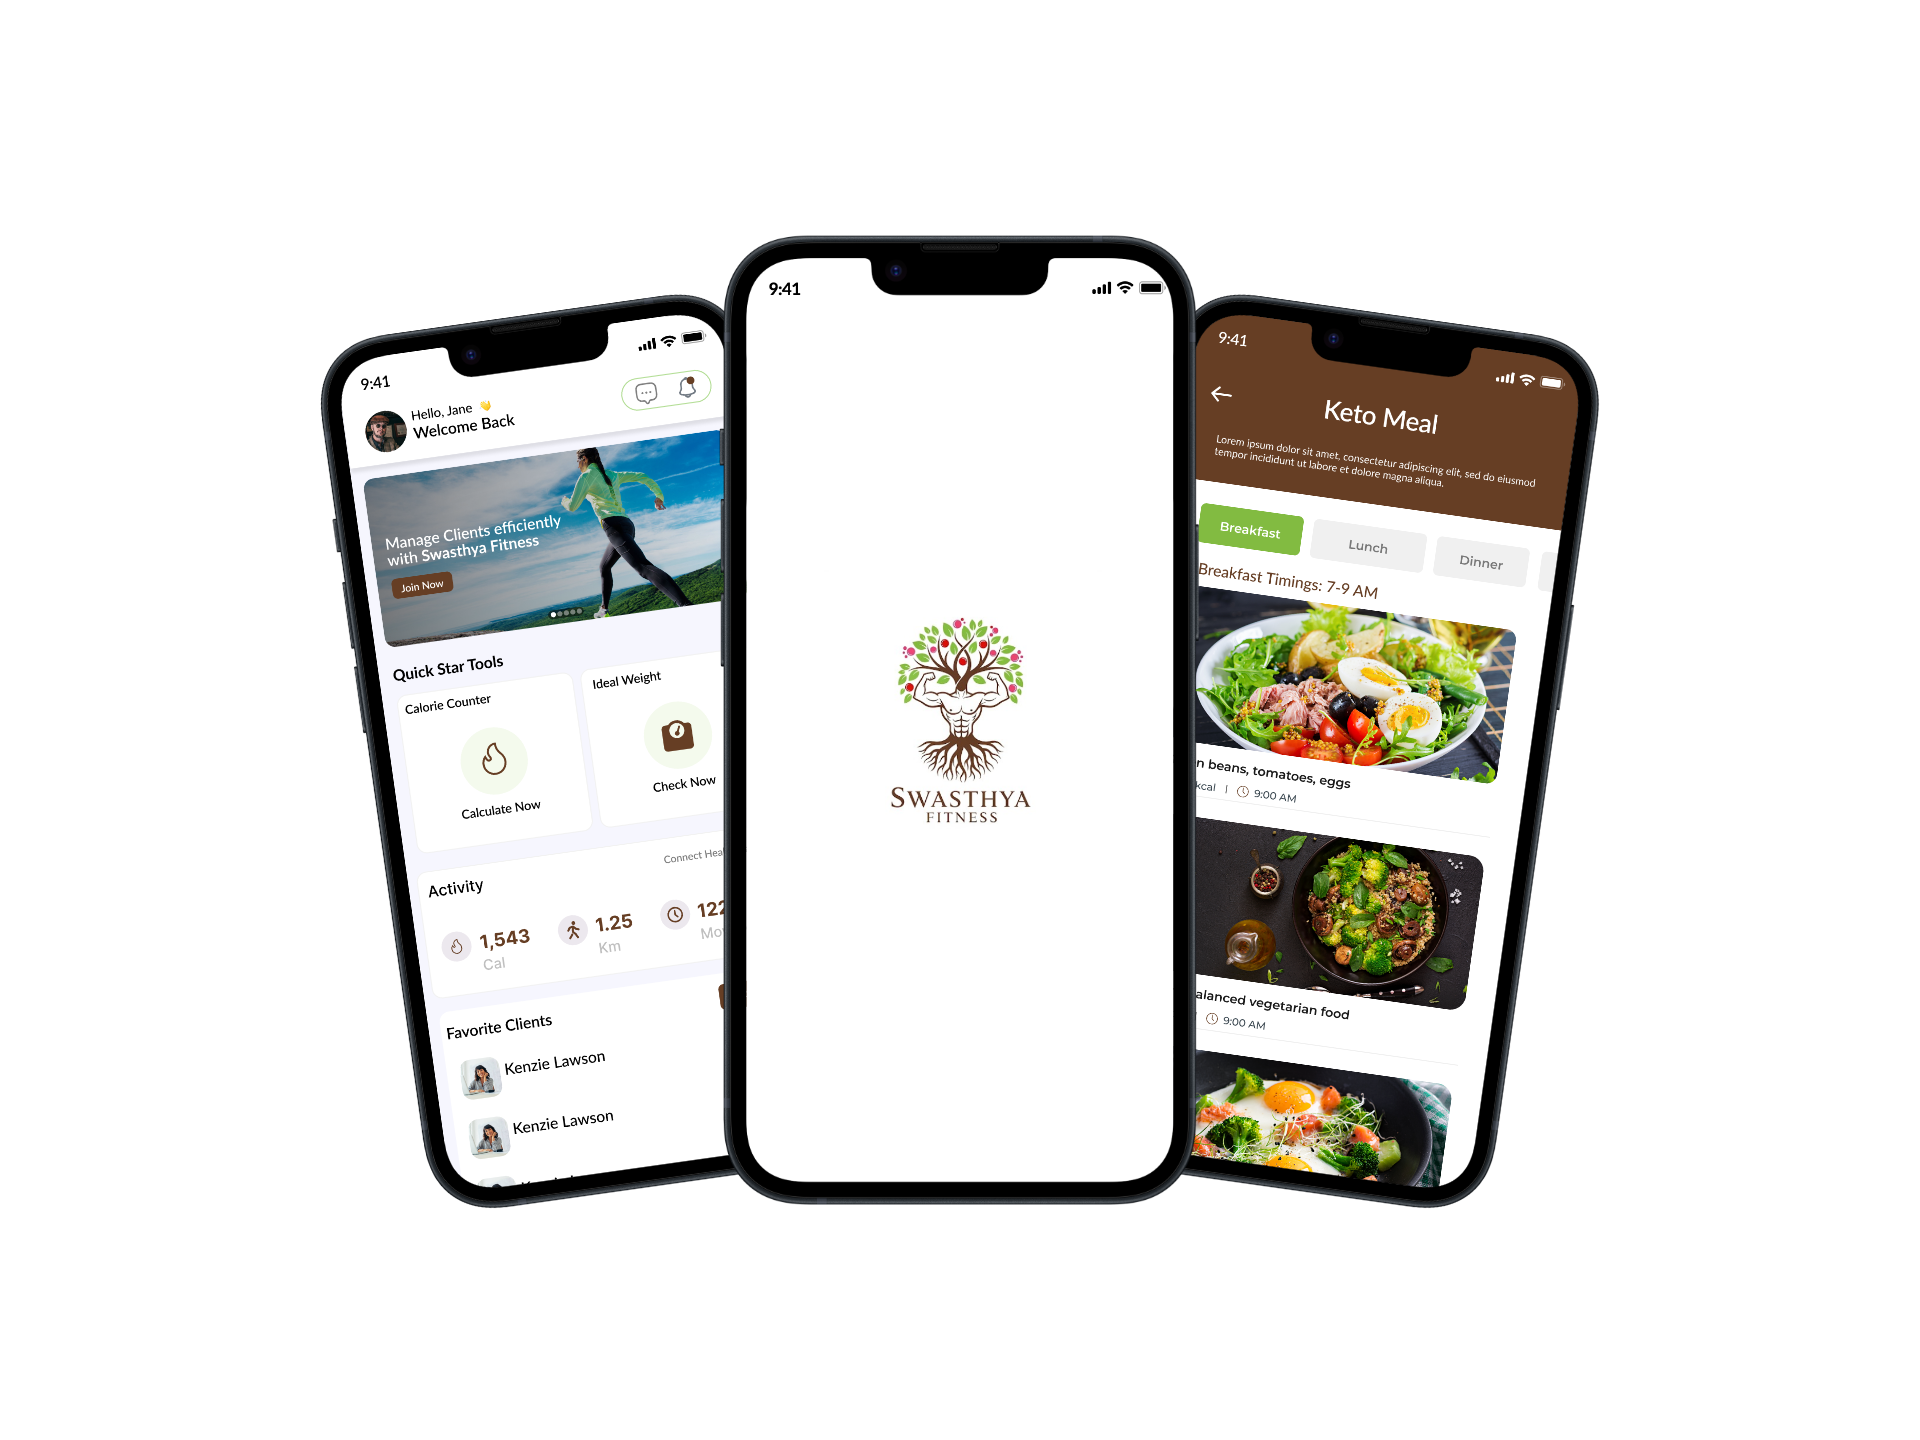
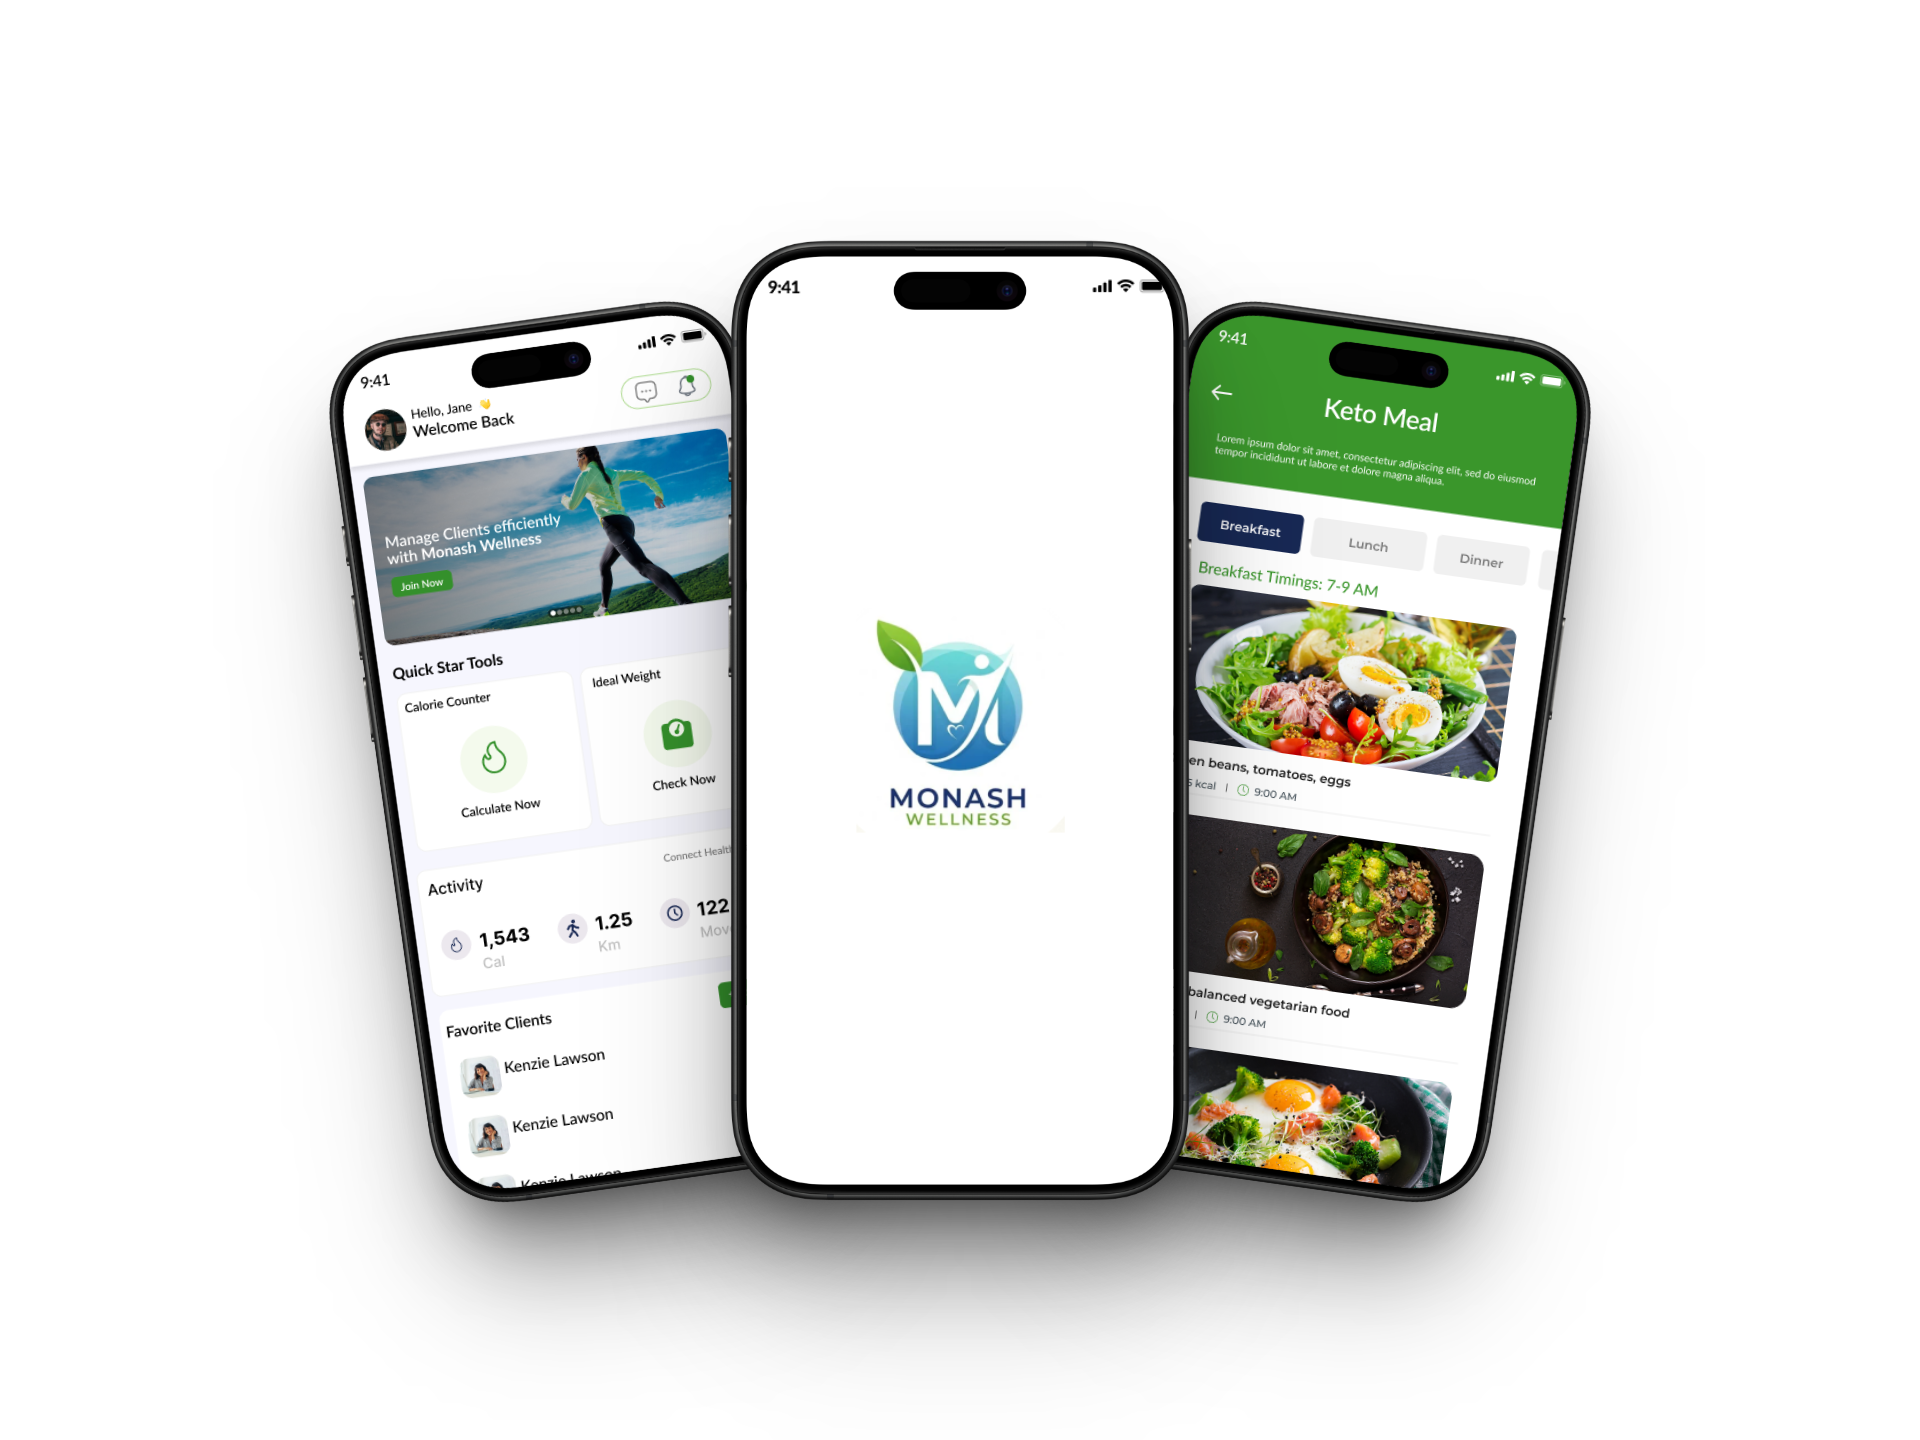
mockup-added

diff --git a/src/app/app/[...slug]/page.jsx b/src/app/app/[...slug]/page.jsx
@@ -3,29 +3,29 @@ import Link from "next/link";
 
 export default function Page() {
   return <section className="w-full min-h-screen bg-[url('/app_bg.png')] bg-center flex justify-center items-center py-[4rem] px-6 md:px-12 ">
-    <div className="flex flex-col lg:flex-row justify-between items-center h-full text-white gap-[2rem] lg:gap-[5rem]">
-      <div className="lg:min-w-1/2 flex flex-col items-center lg:items-start lg:pl-6 md:mt-[10rem] lg:mt-0 text-center lg:text-left">
-        <h1 className="text-[1.2rem] md:text-[1.5rem] lg:text-[3rem] font-bold lg:mb-12 lg:leading-[3.5rem] ">Download the <br />
-          <span className='md:text-[2.7rem] text-[2rem] lg:text-[3rem] text-white opacity-100'>The Zen Fit App</span>
-        </h1>
-        <p className="text-sm md:text-xl mb-5 opacity-70 ">Begin your journey Towards Making People Healthy</p>
+    <div className="flex flex-col lg:flex-row justify-between items-center h-full text-white gap-[2rem] md:gap-5 xl:gap-[5rem]">
+      <div className="xl:min-w-1/2 flex flex-col items-center lg:items-start xl:pl-6 md:mt-[10rem] lg:mt-0 text-center lg:text-left">
+                <h1 className="text-[1.2rem] md:text-[1.5rem] lg:text-[2.5rem] xl:text-[3rem] font-bold lg:mb-7 xl:mb-12 lg:leading-[3.5rem] ">Download the <br />
+                    <span className='md:text-[2.7rem] text-[2rem] xl:text-[3rem] text-white opacity-100'>Monash Wellness App</span>
+                </h1>
+                <p className="text-sm md:text-xl mb-5 opacity-70 ">Begin your journey Towards Making People Healthy</p>
         <div className="flex justify-between items-center gap-5 mb-5">
-          <Link href="https://play.google.com/store/apps/details?id=com.wellnessz.swasthya" target="_blank">
-            <Image src="/playstore.png" alt="Google Store" width={150} height={40} className="cursor-pointer" />
+          <Link href="https://play.google.com/store/apps/details?id=com.wellnessz.monash" target="_blank">
+            <Image src="/playstore.png" alt="Google Store" width={150} height={40} className="cursor-pointer w-2xs" />
           </Link>
-          {/* <Link href="https://apps.apple.com/us/app/zenfit-app/id6743387199" target="_blank">
-            <Image src="/appStore.png" alt="App Store" width={150} height={60} className="cursor-pointer" />
-          </Link> */}
+          <Link href="https://apps.apple.com/us/app/monash-wellness/id6751632386" target="_blank">
+            <Image src="/appStore.png" alt="App Store" width={150} height={60} className="cursor-pointer w-2xs" />
+          </Link>
         </div>
       </div>
 
-      <div className="flex justify-center items-center mr-2 md:mr-12">
+      <div className="flex justify-center items-center mr-2 lg:mr-12">
         <Image
           src="/mockup.png"
-          alt="Zen Fit App Screens"
+          alt="Swasthya Fitness Screens"
           width={900}
           height={900}
-          className="w-full self-center max-w-[650px] object-contain" />
+          className="w-full self-center lg:w-lg xl:w-lg 2xl:max-w-3xl mx-auto object-contain" />
       </div>
     </div>
   </section>

diff --git a/src/app/app/page.jsx b/src/app/app/page.jsx
@@ -3,29 +3,29 @@ import Link from "next/link";
 
 export default function Page() {
   return <section className="w-full min-h-screen bg-[url('/app_bg.png')] bg-center flex justify-center items-center py-[4rem] px-6 md:px-12 ">
-    <div className="flex flex-col lg:flex-row justify-between items-center h-full text-white gap-[2rem] xl:gap-[5rem]">
-      <div className="xl:min-w-1/2 flex flex-col items-center lg:items-start xl:pl-6 md:mt-[10rem] xl:mt-0 text-center lg:text-left">
-                <h1 className="text-[1.2rem] md:text-[1.5rem] lg:text-[3rem] font-bold lg:mb-12 lg:leading-[3.5rem] ">Download the <br />
+    <div className="flex flex-col lg:flex-row justify-between items-center h-full text-white gap-[2rem] md:gap-5 xl:gap-[5rem]">
+      <div className="xl:min-w-1/2 flex flex-col items-center lg:items-start xl:pl-6 md:mt-[10rem] lg:mt-0 text-center lg:text-left">
+                <h1 className="text-[1.2rem] md:text-[1.5rem] lg:text-[2.5rem] xl:text-[3rem] font-bold lg:mb-7 xl:mb-12 lg:leading-[3.5rem] ">Download the <br />
                     <span className='md:text-[2.7rem] text-[2rem] xl:text-[3rem] text-white opacity-100'>Monash Wellness App</span>
                 </h1>
                 <p className="text-sm md:text-xl mb-5 opacity-70 ">Begin your journey Towards Making People Healthy</p>
         <div className="flex justify-between items-center gap-5 mb-5">
-          <Link href="https://play.google.com/store/apps/details?id=com.wellnessz.swasthya" target="_blank">
+          <Link href="https://play.google.com/store/apps/details?id=com.wellnessz.monash" target="_blank">
             <Image src="/playstore.png" alt="Google Store" width={150} height={40} className="cursor-pointer w-2xs" />
           </Link>
-          <Link href="https://apps.apple.com/dm/app/swasthya-fitness/id6749893123" target="_blank">
+          <Link href="https://apps.apple.com/us/app/monash-wellness/id6751632386" target="_blank">
             <Image src="/appStore.png" alt="App Store" width={150} height={60} className="cursor-pointer w-2xs" />
           </Link>
         </div>
       </div>
 
-      <div className="flex justify-center items-center mr-2 md:mr-12">
+      <div className="flex justify-center items-center mr-2 lg:mr-12">
         <Image
           src="/mockup.png"
           alt="Swasthya Fitness Screens"
           width={900}
           height={900}
-          className="w-full self-center lg:max-w-sm xl:w-lg 2xl:max-w-3xl object-contain" />
+          className="w-full self-center lg:w-lg xl:w-lg 2xl:max-w-3xl mx-auto object-contain" />
       </div>
     </div>
   </section>
